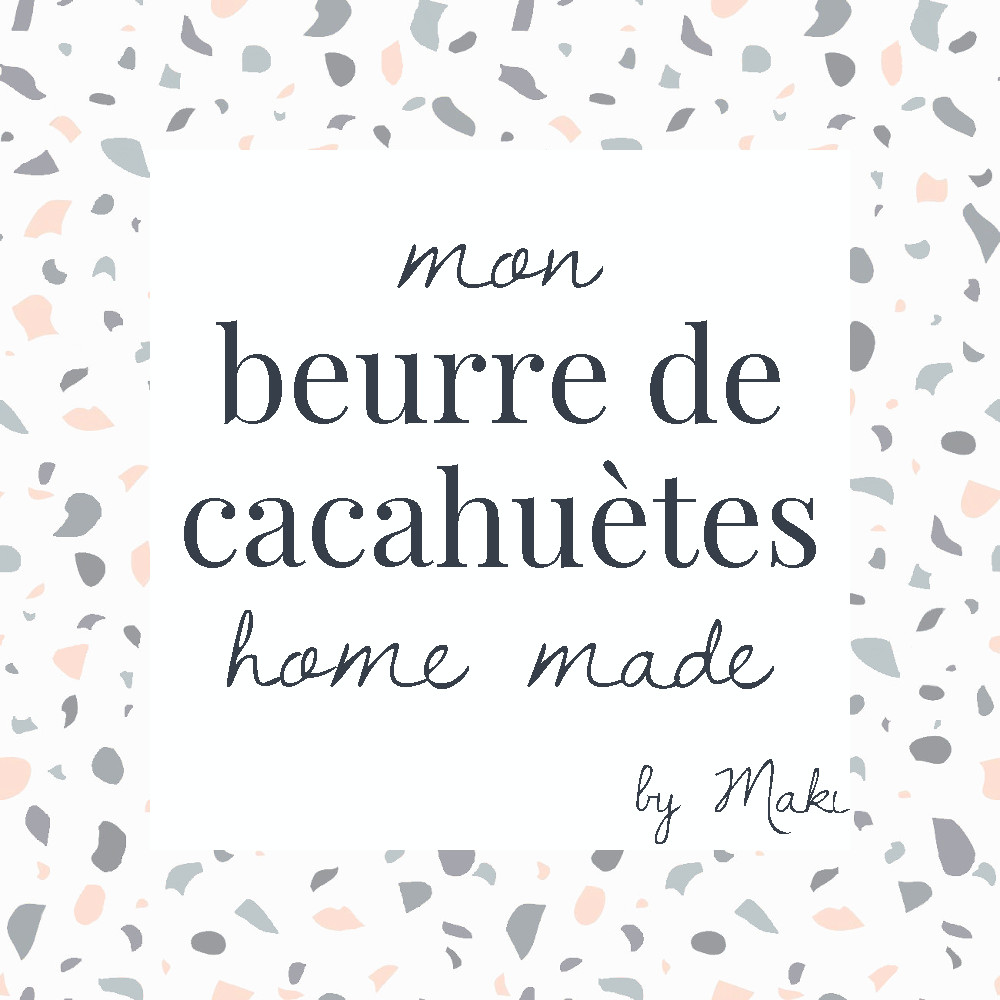
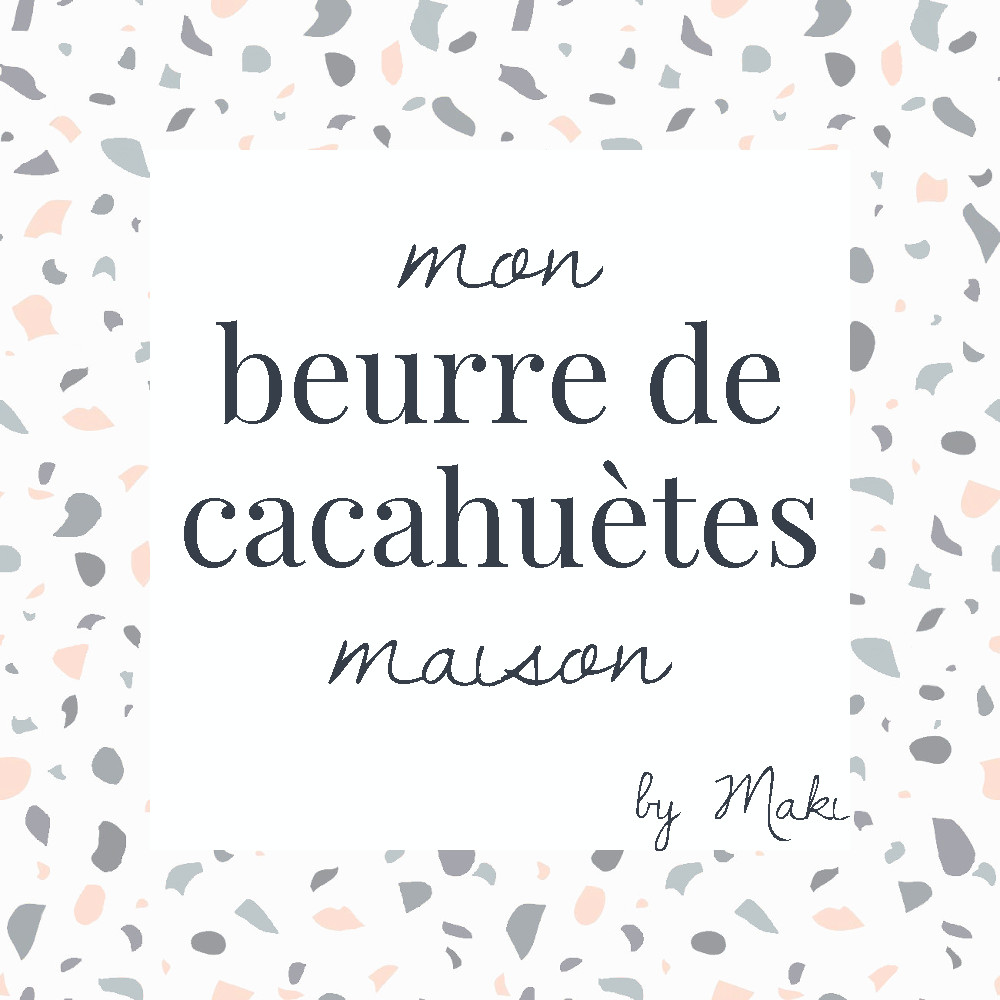
UI Tweaks

diff --git a/src/view/components/Recipes/1/RecipeOne.tsx b/src/view/components/Recipes/1/RecipeOne.tsx
@@ -64,16 +64,16 @@ const RecipeOne : React.FC = props => {
                 <div className={`column`}>
                     <RecipeSectionTitle title='Le matériel' />
                     <ScreenDetector className={`screen-detector-materiel`} onActive={materielOnActive} onUnactive={materielOnUnactive} />
-                    <ListItem text={`Un mixeur à main`} dotColor={getBackgroundColor(1, 10)} active={materielActive}/>
-                    <ListItem text={`Une boîte en carton ou moules en silicone 🥡`} dotColor={getBackgroundColor(2, 10)} active={materielActive}/>
-                    <ListItem text={`Une balance de cuisine`}dotColor={getBackgroundColor(3, 10)} active={materielActive} activeDelay={`0.2s`}/>
-                    <ListItem text={`2-3 Eco cups selon le nombre de couleurs différentes`}dotColor={getBackgroundColor(4, 10)} active={materielActive} activeDelay={`0.4s`}/>
-                    <ListItem text={`Un grand saladier ou une carafe`}dotColor={getBackgroundColor(5, 10)} active={materielActive} activeDelay={`0.6s`}/>
-                    <ListItem text={`Une spatule pour râcler`} dotColor={getBackgroundColor(6, 10)} active={materielActive} activeDelay={`0.8s`}/>
-                    <ListItem text={`Des bâtonnets pour touiller`} dotColor={getBackgroundColor(7, 10)} active={materielActive} activeDelay={`1s`}/>
-                    <ListItem text={`Des gants de ménage`} dotColor={getBackgroundColor(8, 10)} active={materielActive} activeDelay={`1.2s`}/>
-                    <ListItem text={`Une blouse`} dotColor={getBackgroundColor(9, 10)} active={materielActive} activeDelay={`1.4s`}/>
-                    <ListItem text={`Des lunettes de protection`} dotColor={getBackgroundColor(10, 10)} active={materielActive} activeDelay={`1.6s`}/>
+                    <ListItem text={`Un mixeur à main`} dotColor={getBackgroundColor(0, 9)} active={materielActive}/>
+                    <ListItem text={`Une boîte en carton ou moules en silicone 🥡`} dotColor={getBackgroundColor(1, 9)} active={materielActive}/>
+                    <ListItem text={`Une balance de cuisine`}dotColor={getBackgroundColor(2, 9)} active={materielActive} activeDelay={`0.2s`}/>
+                    <ListItem text={`2-3 Eco cups selon le nombre de couleurs différentes`}dotColor={getBackgroundColor(3, 9)} active={materielActive} activeDelay={`0.4s`}/>
+                    <ListItem text={`Un grand saladier ou une carafe`}dotColor={getBackgroundColor(4, 9)} active={materielActive} activeDelay={`0.6s`}/>
+                    <ListItem text={`Une spatule pour râcler`} dotColor={getBackgroundColor(5, 9)} active={materielActive} activeDelay={`0.8s`}/>
+                    <ListItem text={`Des bâtonnets pour touiller`} dotColor={getBackgroundColor(6, 9)} active={materielActive} activeDelay={`1s`}/>
+                    <ListItem text={`Des gants de ménage`} dotColor={getBackgroundColor(7, 9)} active={materielActive} activeDelay={`1.2s`}/>
+                    <ListItem text={`Une blouse`} dotColor={getBackgroundColor(8, 9)} active={materielActive} activeDelay={`1.4s`}/>
+                    <ListItem text={`Des lunettes de protection`} dotColor={getBackgroundColor(9, 9)} active={materielActive} activeDelay={`1.6s`}/>
                 </div>
             </div>
             

diff --git a/src/view/components/Recipes/3/RecipeThree.tsx b/src/view/components/Recipes/3/RecipeThree.tsx
@@ -2,12 +2,15 @@ import React, { useState } from 'react';
 import ScreenDetector from '../../ScreenDetector/screenDetector';
 import ListItem from '../Template/ListItem/ListItem';
 import RecipeHighlight from '../Template/RecipeHighlight/RecipeHighlight';
+import RecipeImage from '../Template/RecipeImage/RecipeImage';
 import RecipeSectionTitle from '../Template/RecipeSectionTitle/RecipeSectionTitle';
 import RecipeTemplate, { getBackgroundColor } from '../Template/RecipeTemplate';
 import './RecipeThree.scss';
 
 
 const RecipeThree : React.FC = props => {
+    const image = require(`./images/hero-image.jpg`).default;
+
     const [materielActive, setMaterielActive] = useState(false);
     const materielOnActive = () => {
         setMaterielActive(true);
@@ -19,11 +22,6 @@ const RecipeThree : React.FC = props => {
 
     return (
         <RecipeTemplate recipeId={3} classname={`three`}>
-            {/* <RecipeSectionTitle title='En résumé' /> */}
-            
-            
-            {/* <div className={`section-separator`}></div> */}
-            
             <div className={`two-columns`}>
                 <div className={`column`}>
                     <RecipeSectionTitle title='Les ingrédients' />
@@ -47,11 +45,11 @@ const RecipeThree : React.FC = props => {
                 <div className={`column`}>
                     <RecipeSectionTitle title='Le matériel' />
                     <ScreenDetector className={`screen-detector-materiel`} onActive={materielOnActive} onUnactive={materielOnUnactive} />
-                    <ListItem text={`Une râpe`} dotColor={getBackgroundColor(1, 5)} active={materielActive}/>
-                    <ListItem text={`Une grande casserole`} dotColor={getBackgroundColor(2, 5)} active={materielActive}/>
-                    <ListItem text={`Une plaque chauffante`} dotColor={getBackgroundColor(3, 5)} active={materielActive}/>
-                    <ListItem text={`Un contenant`} dotColor={getBackgroundColor(4, 5)} active={materielActive}/>
-                    <ListItem text={`Un entonnoir (optionnel)`} dotColor={getBackgroundColor(5, 5)} active={materielActive}/>
+                    <ListItem text={`Une râpe`} dotColor={getBackgroundColor(0, 4)} active={materielActive}/>
+                    <ListItem text={`Une grande casserole`} dotColor={getBackgroundColor(1, 4)} active={materielActive}/>
+                    <ListItem text={`Une plaque chauffante`} dotColor={getBackgroundColor(2, 4)} active={materielActive}/>
+                    <ListItem text={`Un contenant`} dotColor={getBackgroundColor(3, 4)} active={materielActive}/>
+                    <ListItem text={`Un entonnoir (optionnel)`} dotColor={getBackgroundColor(4, 4)} active={materielActive}/>
                 </div>
             </div>
             
@@ -80,9 +78,9 @@ const RecipeThree : React.FC = props => {
 
             <div className={`section-separator`}></div>
 
-            <RecipeSectionTitle title='Les coûts' />
-            
-            <br></br>
+            <div className={`flex-column`}>
+                <RecipeImage imageUrl={image} title={`Ma lessive`} text={`maison`} />
+            </div>
 
             <div className={`section-separator`}></div>
         </RecipeTemplate>

diff --git a/src/view/components/Recipes/Template/RecipeImage/RecipeImage.scss b/src/view/components/Recipes/Template/RecipeImage/RecipeImage.scss
@@ -7,47 +7,45 @@
     background-size: cover;
     background-position: center;
     position: relative;
-    >a {
-        >img {
-            width: 100%;
+    >img {
+        width: 100%;
+    }
+    >.hover-shadow {
+        position: absolute;
+        top: calc(var(--size-margin-10) * (-1));
+        left: calc(var(--size-margin-10) * (-1));
+        width: 100%;
+        height: 100%;
+        background-color: var(--color-charcoal);
+        opacity: 0;
+        transition: opacity 0.6s, top 0.6s, left 0.6s;
+    }
+    >.recipe-image-content {
+        position: absolute;
+        top: 50%;
+        left: 50%;
+        transform: translateY(-50%) translateX(-50%);
+        opacity: 0;
+        transition: opacity 0.6s, top 0.6s, left 0.6s;
+        color: var(--color-white);
+        >.recipe-image-title {
+            font-size: 2rem;
+            font-family: PlayFairSC;
         }
+        >.recipe-image-text {
+            font-size: 2rem;
+            font-family: Dawning;
+        }
+    }
+    &:hover {
         >.hover-shadow {
-            position: absolute;
-            top: calc(var(--size-margin-10) * (-1));
-            left: calc(var(--size-margin-10) * (-1));
-            width: 100%;
-            height: 100%;
-            background-color: var(--color-charcoal);
-            opacity: 0;
-            transition: opacity 0.6s, top 0.6s, left 0.6s;
+            opacity: 0.4;
+            top: 0;
+            left: 0;
         }
         >.recipe-image-content {
-            position: absolute;
-            top: 50%;
-            left: 50%;
-            transform: translateY(-50%) translateX(-50%);
-            opacity: 0;
-            transition: opacity 0.6s, top 0.6s, left 0.6s;
-            color: var(--color-white);
-            >.recipe-image-title {
-                font-size: 1.2rem;
-                font-family: PlayFairSC;
-            }
-            >.recipe-image-text {
-                font-size: 1rem;
-                font-family: PlayFair;
-            }
-        }
-        &:hover {
-            >.hover-shadow {
-                opacity: 0.4;
-                top: 0;
-                left: 0;
-            }
-            >.recipe-image-content {
-                opacity: 1;
-                top: calc(50% - var(--size-margin-10));
-            }
+            opacity: 1;
+            top: calc(50% - var(--size-margin-10));
         }
     }
 }

diff --git a/src/view/components/Recipes/4/RecipeFour.tsx b/src/view/components/Recipes/4/RecipeFour.tsx
@@ -8,7 +8,7 @@ import './RecipeFour.scss';
 
 
 const RecipeFour : React.FC = props => {
-    const image = require(`./images/1.jpg`).default;
+    const image = require(`./images/hero-image.jpg`).default;
 
     const [materielActive, setMaterielActive] = useState(false);
     const materielOnActive = () => {
@@ -21,11 +21,6 @@ const RecipeFour : React.FC = props => {
 
     return (
         <RecipeTemplate recipeId={4} classname={`four`}>
-            {/* <RecipeSectionTitle title='En résumé' /> */}
-            
-            
-            {/* <div className={`section-separator`}></div> */}
-            
             <div className={`two-columns`}>
                 <div className={`column`}>
                     <RecipeSectionTitle title='Les ingrédients' />
@@ -45,9 +40,9 @@ const RecipeFour : React.FC = props => {
                 <div className={`column`}>
                     <RecipeSectionTitle title='Le matériel' />
                     <ScreenDetector className={`screen-detector-materiel`} onActive={materielOnActive} onUnactive={materielOnUnactive} />
-                    <ListItem text={`Un mixeur`} dotColor={getBackgroundColor(1, 5)} active={materielActive}/>
-                    <ListItem text={`Un bocal`} dotColor={getBackgroundColor(2, 5)} active={materielActive}/>
-                    <ListItem text={`Un four si les cacahuètes sont crues`} dotColor={getBackgroundColor(3, 5)} active={materielActive}/>
+                    <ListItem text={`Un mixeur`} dotColor={getBackgroundColor(0, 2)} active={materielActive}/>
+                    <ListItem text={`Un bocal`} dotColor={getBackgroundColor(1, 2)} active={materielActive}/>
+                    <ListItem text={`Un four si les cacahuètes sont crues`} dotColor={getBackgroundColor(2, 2)} active={materielActive}/>
                 </div>
             </div>
             
@@ -75,7 +70,7 @@ const RecipeFour : React.FC = props => {
             <div className={`section-separator`}></div>
 
             <div className={`flex-column`}>
-                <RecipeImage imageUrl={image} title={`Mon pot de beurre de cacahuètes`} text={`home made`} />
+                <RecipeImage imageUrl={image} title={`Mon beurre de cacahuètes`} text={`maison`} />
             </div>
         </RecipeTemplate>
     );

diff --git a/src/view/components/Recipes/2/RecipeTwo.tsx b/src/view/components/Recipes/2/RecipeTwo.tsx
@@ -51,11 +51,11 @@ const RecipeTwo : React.FC = props => {
                 <div className={`column`}>
                     <RecipeSectionTitle title='Le matériel' />
                     <ScreenDetector className={`screen-detector-materiel`} onActive={materielOnActive} onUnactive={materielOnUnactive} />
-                    <ListItem text={`Une grande casserole pour le bain-marie`} dotColor={getBackgroundColor(1, 5)} active={materielActive}/>
-                    <ListItem text={`Une petite casserole ou un bécher muni d'un bec verseur`} dotColor={getBackgroundColor(2, 5)} active={materielActive}/>
-                    <ListItem text={`Une plaque chauffante`} dotColor={getBackgroundColor(3, 5)} active={materielActive}/>
-                    <ListItem text={`10 tubes pour baume à lèvres`} dotColor={getBackgroundColor(4, 5)} active={materielActive}/>
-                    <ListItem text={`Un entonnoir (optionnel)`} dotColor={getBackgroundColor(5, 5)} active={materielActive}/>
+                    <ListItem text={`Une grande casserole pour le bain-marie`} dotColor={getBackgroundColor(0, 4)} active={materielActive}/>
+                    <ListItem text={`Une petite casserole ou un bécher muni d'un bec verseur`} dotColor={getBackgroundColor(1, 4)} active={materielActive}/>
+                    <ListItem text={`Une plaque chauffante`} dotColor={getBackgroundColor(2, 4)} active={materielActive}/>
+                    <ListItem text={`10 tubes pour baume à lèvres`} dotColor={getBackgroundColor(3, 4)} active={materielActive}/>
+                    <ListItem text={`Un entonnoir (optionnel)`} dotColor={getBackgroundColor(4, 4)} active={materielActive}/>
                 </div>
             </div>
             

diff --git a/src/view/components/Recipes/Template/RecipeImage/RecipeImage.tsx b/src/view/components/Recipes/Template/RecipeImage/RecipeImage.tsx
@@ -11,7 +11,6 @@ const RecipeImage : React.FC<IRecipeImageProps> = props => {
 
     return (
         <div className={`recipe-image`} style={{ backgroundImage: `url('${props.imageUrl}')` }}>
-            <a href={props.imageUrl} target='_blank'>
                 <div className={`hover-shadow`}></div>
                 <div className={`recipe-image-content`}>
                     <div className={`recipe-image-title`}>
@@ -21,7 +20,6 @@ const RecipeImage : React.FC<IRecipeImageProps> = props => {
                         {props.text}
                     </div>
                 </div>
-            </a>
         </div>
     );
 }
